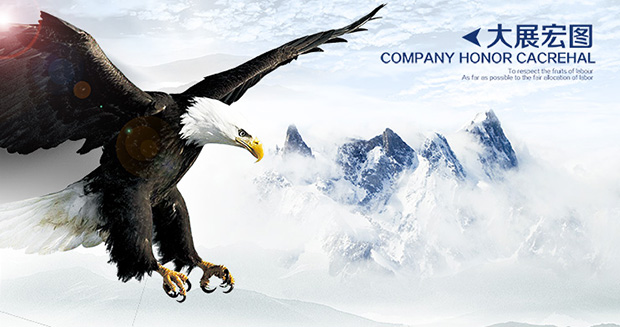
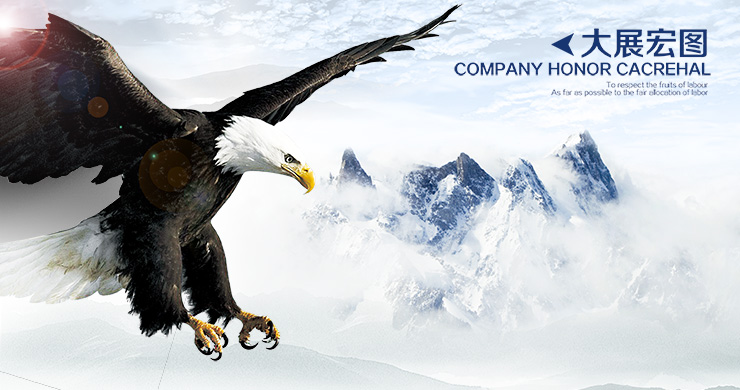
up

diff --git a/pages/about.html b/pages/about.html
@@ -7,4 +7,4 @@ keywords: 堡利莱印刷机械
 description: 堡利莱印刷机械
 ---
 <p><span style="font-size:medium;text-indent:2em;text-align:justify">佛山市堡利莱机械设备有限公司成立于2012年，坐落于历史名城的佛山市顺德区勒流镇经济开发区，占地面积1200平方米。经过堡利莱机械公司全体员工的共同努力和持续发展，公司已经成长为是一家集涂布、印刷、复合、分切、复卷、模压、智能自动化等设备研制与应用，工艺和技术开发为一体的专业成套设备制造公司。产品主要包括食品软包装印刷、装饰材料复合印刷和胶粘制品加工设备、LED灯带自动化设备等等。其中成套产品包括：高温热压复合机、高速干复机、涂布复合机、LED全自动分条机、自动化无导线分条机、自动化输送设备等等。堡利莱不仅努力开发具有国际水准的印刷成套设备。更注重提供系统的解决方案专业化的机械制造企业。公司拥有各类选进设备以满足不同客户的需要。公司多年来秉持互惠共赢的原则与国内外客户开展贸易合作往来。现已成为多家上市集团有限公司的合格供应商。同时我公司也在近年成为多家贸易公司的重要供方之一，与国外多家企业建立了长期稳定的友好合作关系。公司的生产能力和技术水平在同行业中处于先进地位，多年以来为制造行业做出了应有的贡献。先进的生产设备，完善的管理制度保证了我公司的产品质量与快速健康发展。</span></p>
-<p align="center"><img src="{{ site.url }}/images/about/about.jpg" width="620" height="327"></p>
+<p align="center"><img src="{{ site.url }}/images/about/about.jpg" width="740" height="390"></p>
